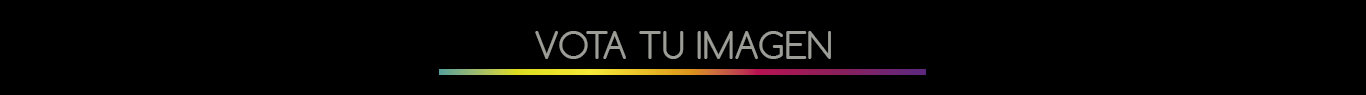
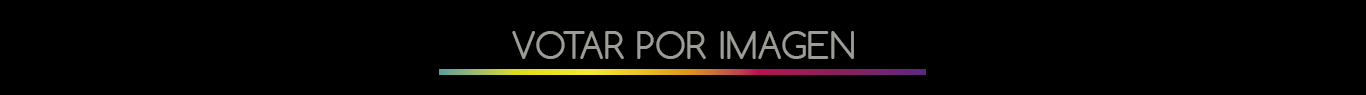
Cambio de imagen de caca
ñañañañ

Changed region(s): [[0.369, 0.3158, 0.6457, 0.6316]]

diff --git a/resources/views/votar.blade.php b/resources/views/votar.blade.php
@@ -37,7 +37,7 @@
     <div class="row">
 @if (Session::has('fotos'))
 <div class="col-md-12 nomarggin">
-  <img class="img-responsive" src="image/votar/votaTuImagen.png">
+  <img class="img-responsive" src="image/votar/votar.jpg">
     @foreach (Session::get('fotos') as $foto)
 
 </div>
